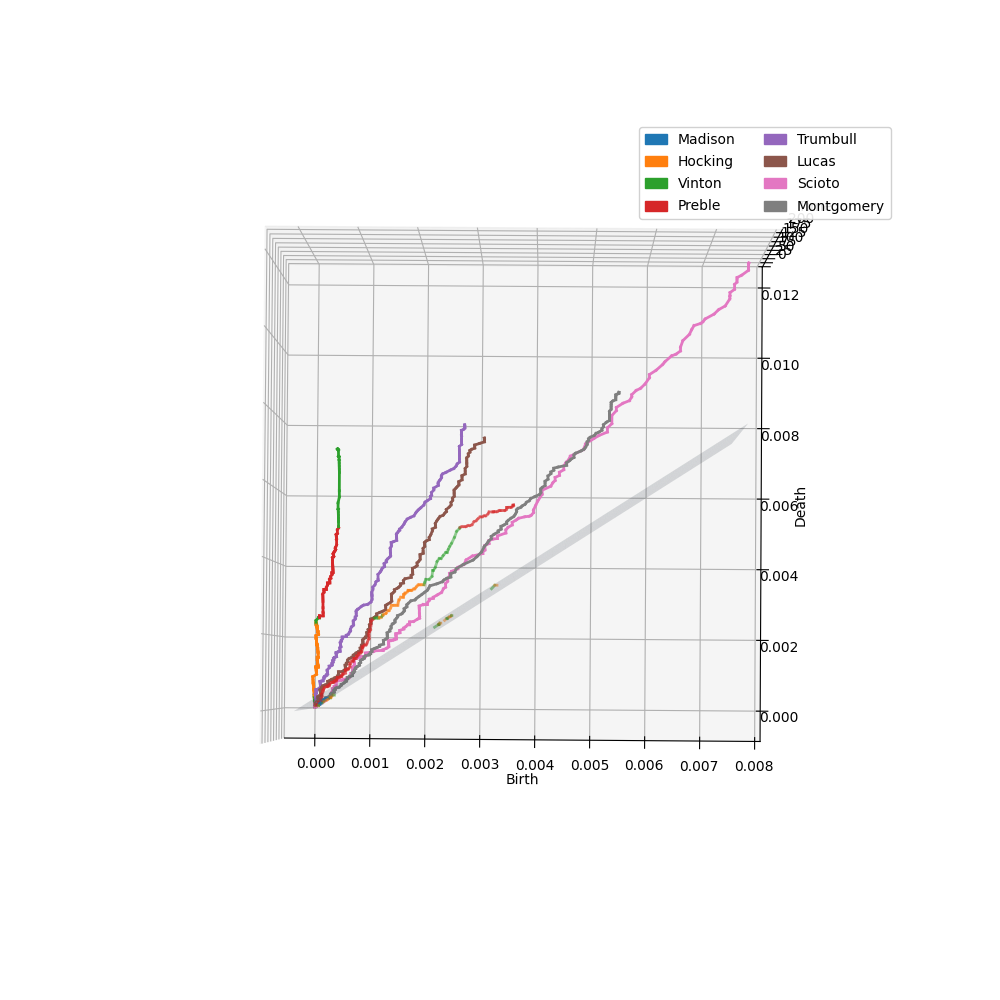
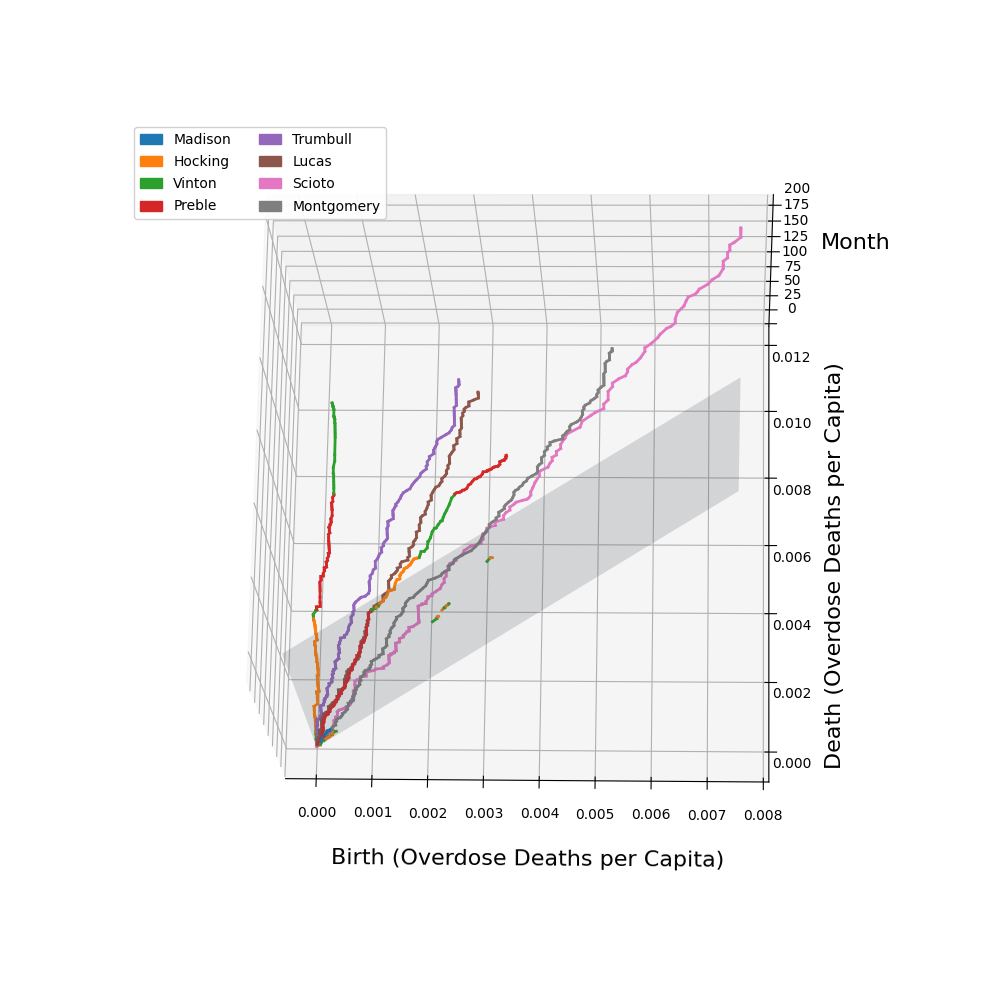
Updated topdown vineyard figs

diff --git a/vineyard.py b/vineyard.py
@@ -1302,7 +1302,7 @@ class Vineyard():
                 selected_ids.add(id(vine))
         return selected_vines
 
-    def plot_selected_vines(self, vine_ranks, label_by_region = False, show_legend = True, start_timestep = 0, end_timestep = None, exclude = [], region_colors = None, include_represented_vines = False):
+    def plot_selected_vines(self, vine_ranks, label_by_region = False, show_legend = True, start_timestep = 0, end_timestep = None, exclude = [], region_colors = None, include_represented_vines = False, xlabel = "Birth", ylabel = "Death", zlabel = "Time"):
         # Plot finite vines selected by their persistence rank. Ranks are zero-based.
         ranked_vines = self.nontrivial_finite_vines()
         seed_vines = []
@@ -1321,9 +1321,12 @@ class Vineyard():
             end_timestep,
             exclude,
             region_colors,
+            xlabel,
+            ylabel,
+            zlabel,
         )
 
-    def plot_vine_list(self, vines, label_by_region = False, show_legend = True, start_timestep = 0, end_timestep = None, exclude = [], region_colors = None, include_represented_vines = False):
+    def plot_vine_list(self, vines, label_by_region = False, show_legend = True, start_timestep = 0, end_timestep = None, exclude = [], region_colors = None, include_represented_vines = False, xlabel = "Birth", ylabel = "Death", zlabel = "Time"):
         # Plot the exact Vine objects provided by the caller.
         plot_vines = self._expand_represented_vines(list(vines), include_represented_vines)
         return self._plot_vine_list(
@@ -1335,9 +1338,12 @@ class Vineyard():
             end_timestep,
             exclude,
             region_colors,
+            xlabel,
+            ylabel,
+            zlabel,
         )
     
-    def plot(self, start_k = 0, end_k = None, label_by_region = False, show_legend = True, start_timestep = 0, end_timestep = None, exclude = [], region_colors = None, include_represented_vines = False):
+    def plot(self, start_k = 0, end_k = None, label_by_region = False, show_legend = True, start_timestep = 0, end_timestep = None, exclude = [], region_colors = None, include_represented_vines = False, xlabel = "Birth", ylabel = "Death", zlabel = "Time"):
         # Plot top k nontrivial finite vines. If include_represented_vines is
         # True, also plot any vines represented by one of those top-k vines.
         # If label_by_region, color the edges of vines by which region the death simplex comes from.
@@ -1352,9 +1358,12 @@ class Vineyard():
             end_timestep,
             exclude,
             region_colors,
+            xlabel,
+            ylabel,
+            zlabel,
         )
 
-    def _plot_vine_list(self, seed_vines, plot_vines, label_by_region = False, show_legend = True, start_timestep = 0, end_timestep = None, exclude = [], region_colors = None):
+    def _plot_vine_list(self, seed_vines, plot_vines, label_by_region = False, show_legend = True, start_timestep = 0, end_timestep = None, exclude = [], region_colors = None, xlabel = "Birth", ylabel = "Death", zlabel = "Time"):
         plt.figure(figsize = (10, 10))
         ax = plt.axes(projection = '3d')
         cmap = plt.cm.tab20
@@ -1362,9 +1371,14 @@ class Vineyard():
         indices = np.append(indices[::2], indices[1::2])
         color = cmap(indices)
         ax.set_prop_cycle(color = color)
-        ax.set_xlabel('Birth')
-        ax.set_ylabel('Death')
-        ax.set_zlabel('Time')
+        axis_label_fontsize = 16
+        axis_label_pad = 20
+        ax.set_xlabel(xlabel, fontsize = axis_label_fontsize, labelpad = axis_label_pad)
+        ax.set_ylabel(ylabel, fontsize = axis_label_fontsize, labelpad = axis_label_pad)
+        ax.set_zlabel("")
+        ax.tick_params(axis = 'x', labelsize = 10, pad = 6)
+        ax.tick_params(axis = 'y', labelsize = 10, pad = 6)
+        ax.tick_params(axis = 'z', labelsize = 10, pad = 6)
         
         if label_by_region: 
             prev_region_colors = {}
@@ -1386,8 +1400,8 @@ class Vineyard():
         plot_start_time = None
         plot_end_time = None
         for v in plot_vines:
-            vine_alpha = 1 if id(v) in seed_vine_ids else .5
-            vine_linewidth = 2 if id(v) in seed_vine_ids else 1
+            vine_alpha = 1
+            vine_linewidth = 2
             # v.births, v.death, v.vertex_times are computed when nontrivial_vines(k) is called.
             vertex_times, births, deaths = v.get_vertices(start_timestep, end_timestep)
             plot_start_time = vertex_times[0] if plot_start_time is None else min(plot_start_time, vertex_times[0])
@@ -1437,7 +1451,7 @@ class Vineyard():
             plt.legend(
                 handles=patches,
                 ncol = ncol,
-                loc = "upper right",
+                loc = "upper left",
                 fontsize = "medium",
                 labelspacing = .6,
                 handlelength = 1.6,
@@ -1452,6 +1466,16 @@ class Vineyard():
         xx, zz = np.meshgrid(xs, range(z_start, z_end + 1))
         yy = xx
         ax.plot_surface(xx, yy, zz, alpha = .2, color = 'slategrey')
+        if zlabel:
+            ax.text2D(
+                .9,
+                .84,
+                zlabel,
+                transform = ax.transAxes,
+                fontsize = axis_label_fontsize,
+                ha = "left",
+                va = "center",
+            )
         plt.show()
         return region_colors
     